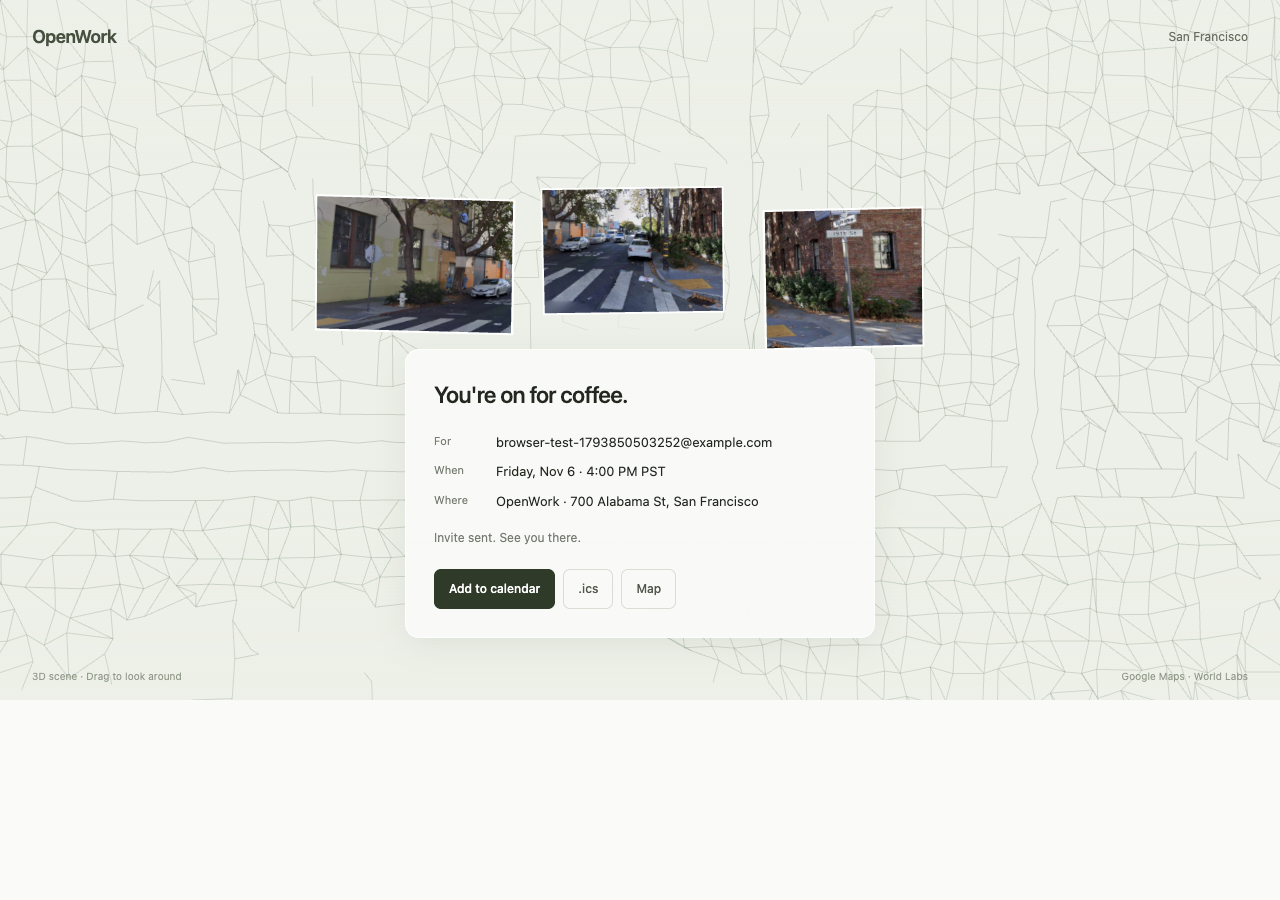
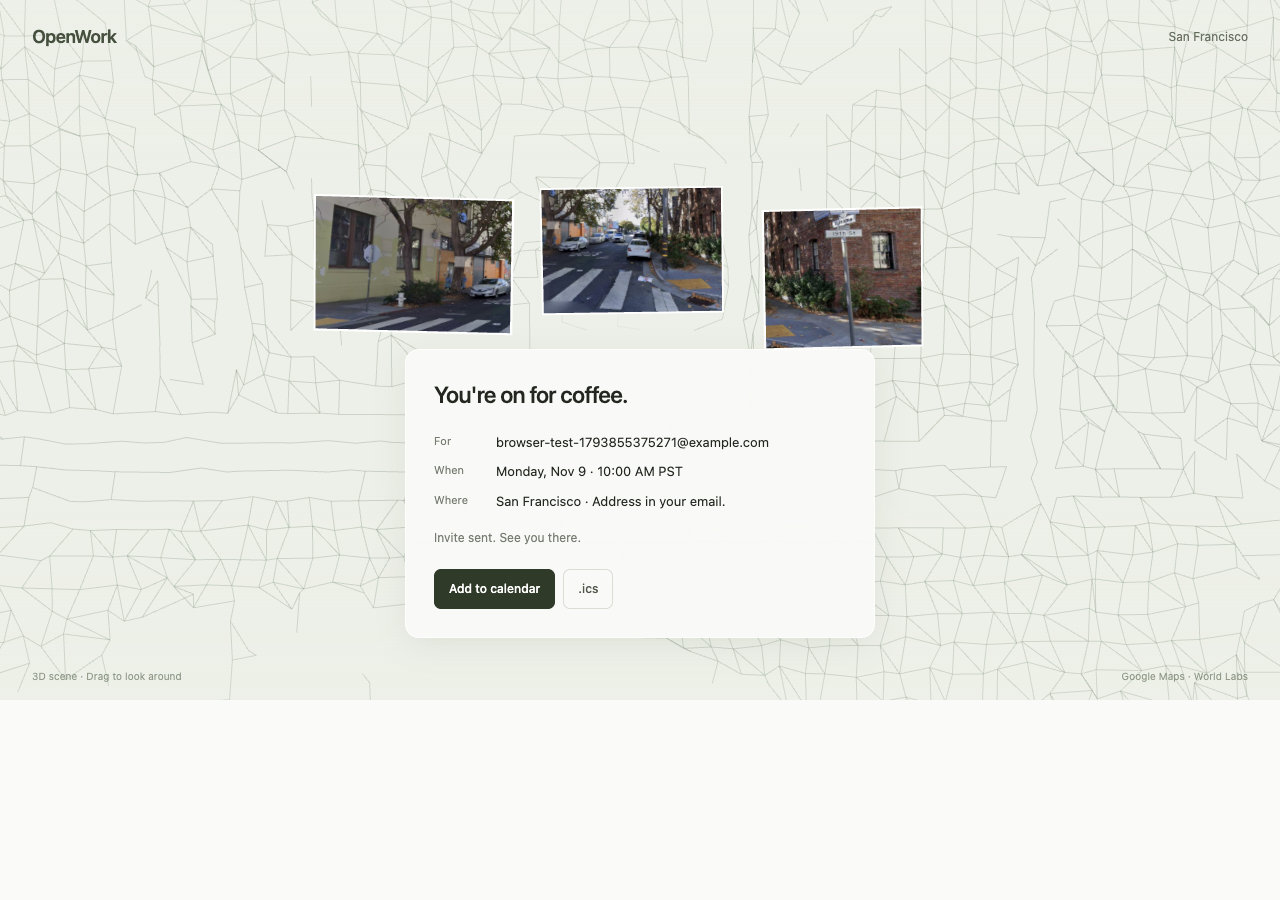
fix(coffee): keep the precise meeting address in email only

diff --git a/ui/coffee.spec.ts b/ui/coffee.spec.ts
@@ -113,7 +113,7 @@ test("email supplied by the agent books directly and hydrates the filled receipt
     arguments: { email: `browser-test-${Date.now()}@example.com` },
   });
   expect(result.structuredContent.state).toBe("booked");
-  expect(result.structuredContent.place).toContain("700 Alabama");
+  expect(JSON.stringify(result)).not.toContain("700 Alabama");
   const frame = await host(page, request, result);
   await expect(frame.locator("#receipt")).toBeVisible();
   await expect(frame.locator("#email")).toHaveValue(
@@ -122,7 +122,8 @@ test("email supplied by the agent books directly and hydrates the filled receipt
   await expect(frame.locator("#receipt")).toContainText(
     result.structuredContent.when,
   );
-  await expect(frame.locator("#receipt")).toContainText("700 Alabama");
+  await expect(frame.locator("#receipt")).not.toContainText("700 Alabama");
+  await expect(frame.locator("#receipt")).toContainText("Address in your email.");
   await expect(frame.locator("#receipt")).not.toContainText("Tap the link");
   await expect(frame.locator("#stage")).toHaveClass(/scene-ready/, {
     timeout: 40000,
@@ -180,7 +181,7 @@ test("a failed invite is shown honestly, with calendar links still available", a
       start: "2026-11-05T18:00:00Z",
       end: "2026-11-05T18:30:00Z",
       when: "Thursday, Nov 5 · 10:00 AM PST",
-      place: "OpenWork · 700 Alabama St, San Francisco",
+      place: "San Francisco · Address in your email.",
       inviteDelivery: "failed",
       calendarUrl: "https://coffee.openworklabs.com/sf/ics?id=test",
       googleCalendarUrl: "https://calendar.google.com",

diff --git a/test/coffee.test.ts b/test/coffee.test.ts
@@ -35,10 +35,16 @@ describe("requestCoffee", () => {
     const result = await requestCoffee(env, { email: "  Ada@Example.com ", note: "agents + coffee", source: "mcp" }, TUESDAY_9AM_PT);
     expect(result).toMatchObject({
       state: "booked", email: "ada@example.com", inviteDelivery: "sent",
-      start: "2026-11-04T18:00:00.000Z", place: "OpenWork · 700 Alabama St, San Francisco",
+      start: "2026-11-04T18:00:00.000Z", place: "San Francisco · Address in your email.",
     });
     const emails = calls.filter((call) => call.url === "https://api.resend.com/emails");
     expect(emails).toHaveLength(1);
+    expect(JSON.stringify(result)).not.toContain("700 Alabama");
+    expect(JSON.stringify(emails[0]?.body)).toContain("700 Alabama St, San Francisco");
+    if (result.state === "booked") {
+      expect(await coffeeIcs(env, result.requestId)).not.toContain("700 Alabama");
+      expect(result.placeUrl).toBeUndefined();
+    }
     expect(emails[0]?.body).toMatchObject({ to: ["ada@example.com"], attachments: [expect.objectContaining({ filename: "coffee.ics" })] });
     expect(JSON.stringify(calls.find((call) => call.url.includes("hooks.slack.com"))?.body)).toContain("agents + coffee");
   });
@@ -96,7 +102,7 @@ describe("confirmCoffee", () => {
       email: "ada@example.com",
       start: "2026-11-04T18:00:00.000Z",
       when: "Wednesday, Nov 4 · 10:00 AM PST",
-      place: "OpenWork · 700 Alabama St, San Francisco",
+      place: "San Francisco · Address in your email.",
     });
     expect(slack).toBe("sent");
 

diff --git a/src/coffee.ts b/src/coffee.ts
@@ -88,10 +88,9 @@ function bookedResult(env: Env, req: StoredRequest): CoffeeResult {
     start: req.start,
     end: req.end,
     when: formatWhen(event.start, env.TIMEZONE),
-    place: env.COFFEE_PLACE,
-    placeUrl: env.COFFEE_PLACE_URL,
+    place: "San Francisco · Address in your email.",
     calendarUrl: `${publicBase(env)}/ics?id=${req.id}`,
-    googleCalendarUrl: googleCalendarUrl(event),
+    googleCalendarUrl: googleCalendarUrl({ ...event, location: "San Francisco — see your email for the address" }),
     inviteDelivery: req.inviteDelivery ?? "unknown",
   };
 }
@@ -213,10 +212,10 @@ async function bookRequest(
         to: booked.email,
         cc: env.HOST_EMAIL,
         when: result.when,
-        place: result.place,
-        placeUrl: result.placeUrl,
+        place: env.COFFEE_PLACE,
+        placeUrl: env.COFFEE_PLACE_URL,
         hostName: env.HOST_NAME,
-        googleCalendarUrl: result.googleCalendarUrl,
+        googleCalendarUrl: googleCalendarUrl(event),
         ics: buildIcs(event, now),
       }),
     );
@@ -244,5 +243,5 @@ export async function coffeeStatus(env: Env, requestId: string): Promise<CoffeeR
 export async function coffeeIcs(env: Env, requestId: string): Promise<string | null> {
   const req = await loadRequest(env.COFFEE_KV, requestId);
   const event = req ? calendarEvent(env, req) : null;
-  return event ? buildIcs(event) : null;
+  return event ? buildIcs({ ...event, location: "San Francisco — see your email for the address" }) : null;
 }

diff --git a/test/worker.test.ts b/test/worker.test.ts
@@ -74,7 +74,7 @@ describe("MCP over HTTP at /sf", () => {
     const call = await rpc(env, "tools/call", { name: "grab_coffee", arguments: { email: "ada@example.com" } });
     expect(call.result.structuredContent).toMatchObject({
       state: "booked", email: "ada@example.com", inviteDelivery: "sent",
-      place: "OpenWork · 700 Alabama St, San Francisco",
+      place: "San Francisco · Address in your email.",
     });
     expect(call.result.content[0].text).toContain("No confirmation click is needed");
     const repeated = await rpc(env, "tools/call", { name: "grab_coffee", arguments: { email: "ada@example.com" } });
@@ -116,7 +116,8 @@ describe("web routes", () => {
     expect(res.headers.get("content-type")).toContain("text/html");
     const page = await res.text();
     expect(page).toContain("Hey this is OpenWork.");
-    expect(page).toContain("700 Alabama St");
+    expect(page).not.toContain("700 Alabama St");
+    expect(page).toContain("Address in your email.");
     expect(page).toContain("aka good coffee.");
   });
 

diff --git a/app/main.ts b/app/main.ts
@@ -197,7 +197,7 @@ function render(result: CoffeeResult): void {
         line("You're on for coffee.", "big"),
         row("For", result.email),
         row("When", result.when),
-        row("Where", result.place),
+        row("Where", "San Francisco · Address in your email."),
         line(
           result.inviteDelivery === "sent"
             ? "Invite sent. See you there."
@@ -211,8 +211,7 @@ function render(result: CoffeeResult): void {
         linkButton("Add to calendar", result.googleCalendarUrl),
         linkButton(".ics", result.calendarUrl, true),
       );
-      if (result.placeUrl)
-        receiptFooter.append(linkButton("Map", result.placeUrl, true));
+      // The precise meeting address is provided in the invitation email only.
       return;
     }
   }

diff --git a/app/app.html b/app/app.html
@@ -6,7 +6,7 @@
     <title>Coffee with OpenWork</title>
     <meta
       name="description"
-      content="Come get coffee with OpenWork at 700 Alabama St, San Francisco."
+      content="Come get coffee with OpenWork in San Francisco."
     />
     <link
       rel="icon"
@@ -50,7 +50,7 @@
               ></span
             >.<br />Come get coffee with us.
           </p>
-          <p class="location">700 Alabama St, San Francisco</p>
+          <p class="location">San Francisco · Address in your email.</p>
           <form id="form" novalidate>
             <label for="email" class="sr-only">Email address</label>
             <input

diff --git a/README.md b/README.md
@@ -2,7 +2,7 @@
 
 **Hey this is OpenWork. We make some mean coffee. Come get coffee with us.**
 
-Live: **https://coffee.openworklabs.com/sf** · Meet us at **700 Alabama St, San Francisco**.
+Live: **https://coffee.openworklabs.com/sf** · San Francisco. The meeting address is sent by email, not shown in the page or MCP booking response.
 
 Add one URL to your agent. Tell it your email, and say **“grab a coffee with OpenWork.”** It books and sends an invite. No forms or confirmation clicks required. The optional MCP App shows your booking over a light street wireframe derived from the SF reconstruction, with floating crops of the actual source image.
 

diff --git a/docs/DESIGN.md b/docs/DESIGN.md
@@ -8,7 +8,7 @@
 
 Hover or keyboard-focus **mean coffee** to reveal **aka good coffee.**
 
-**Meet at OpenWork · 700 Alabama St, San Francisco.**
+**San Francisco. The full meeting address is included only in the invitation email and its attached calendar file—not the page, MCP response, public calendar download or booking panel.**
 
 ## Agent first, UI optional
 
